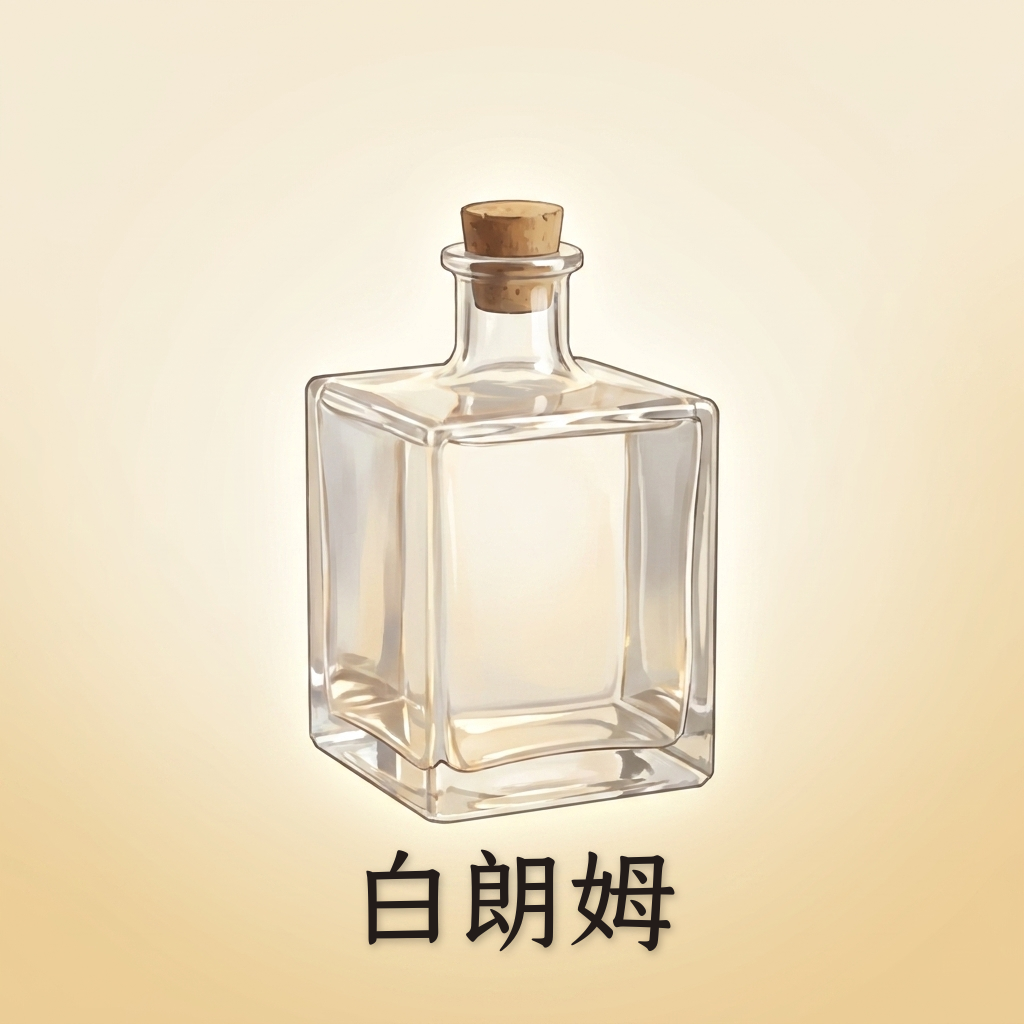
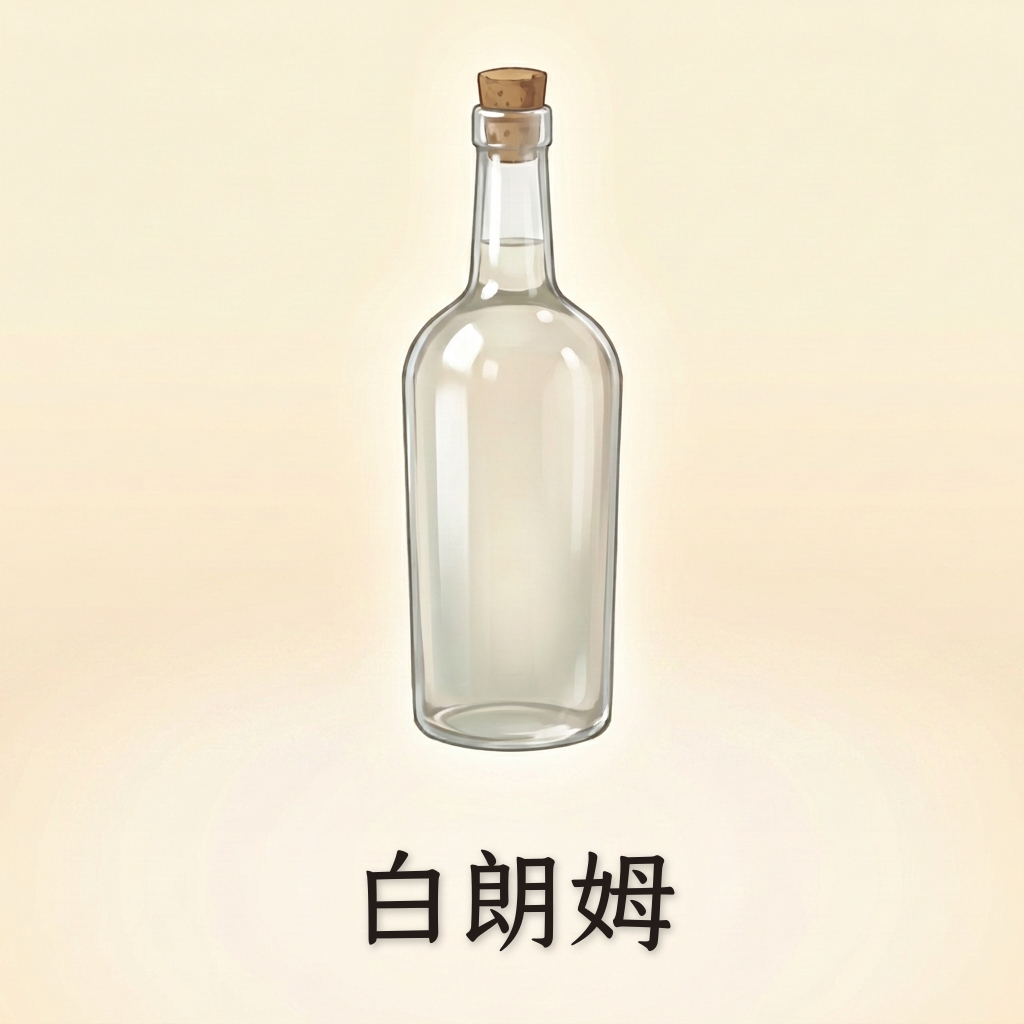
image update

diff --git a/tasks/lessons.md b/tasks/lessons.md
@@ -1,0 +1,10 @@
+# Lessons
+
+Corrections and patterns from past sessions. Review before working on related areas.
+
+## Image generation (cocktail / recipe ingredient icons)
+
+- **Liquid containers ALWAYS stand perfectly upright.** Any glass, bottle, jar, cup, or siphon holding liquid must have its central vertical axis exactly vertical — never tilted, leaning, or rotated. A tilted vessel of liquid reads as spilling and is always wrong. This is a permanent default, not something to decide per image. The `BOTTLE_PROMPT_TEMPLATE` (image-to-image) bakes it in; **bespoke text-to-image icons must state it explicitly**, or the model tilts them for a "dynamic" look (this happened to lemon-juice / simple-syrup / soda-water).
+- **One continuous background — no caption band.** Captioned icons reserve an empty bottom strip for the composited caption, but the background must be the SAME color there as behind the subject — no seam, band, shelf, tabletop, or ground line. The `composite_labels.py` script only draws text + shadow; it never paints a box, so any "label background" is baked into the generated image. Causes: (a) props (fruit, sugar cubes) resting on an implied surface → make them **float**; (b) cool/blue gradients band more than warm/cream → prefer a warm neutral field when a clear liquid needs no color cue.
+- **Cocktail bottle paradigms** live in `~/.claude/skills/ph-image/resources/`: `spirit-bottle-reference.png` (tall cork, all base spirits + liqueurs incl. triple sec, recolored by liquid), `mixer-bottle-reference.png` (crown-cap contour — cola/sodas only). All other mixers are bespoke, case by case (juice in a glass with fruit, syrup bottle + sugar cubes, split coconut, lidded glass of soda). Registry: `BOTTLES` dict in `image_to_image.py`.
+- **Gemini API has a monthly spending cap.** When exhausted, the CLI returns HTTP 429 `RESOURCE_EXHAUSTED` and writes no file. Resets monthly; raise at https://ai.studio/spend. Not a prompt bug — check this first if a batch silently produces no images.
